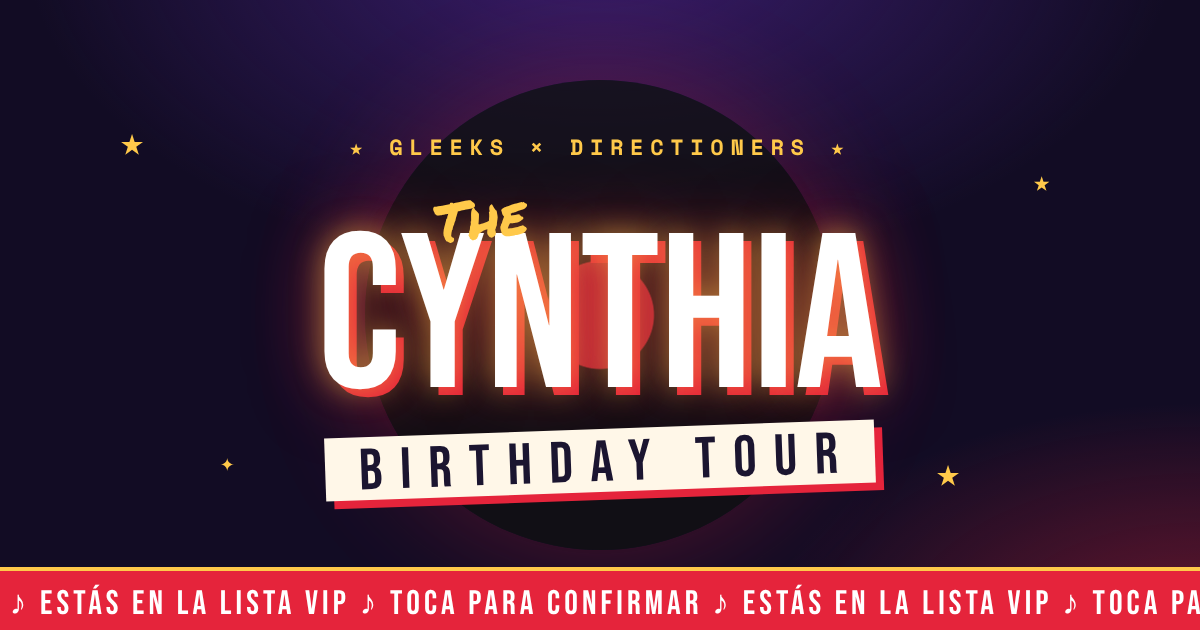
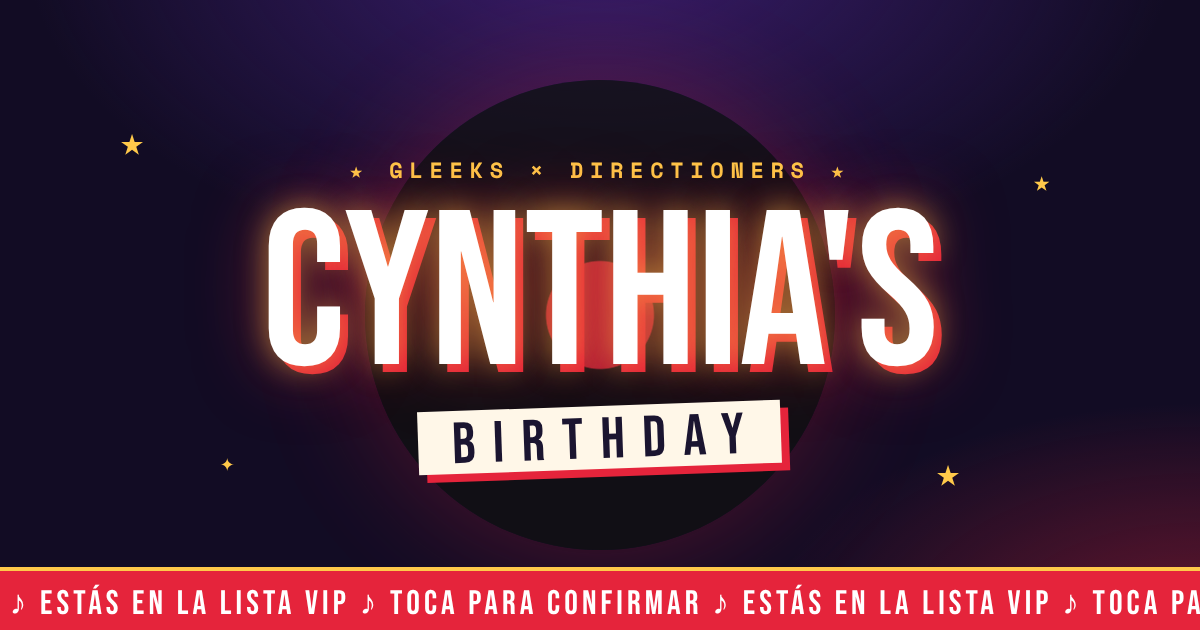
Ubicación exacta en Maps, título Cynthia's Birthday y texto de bienvenida más general
Claude-Session: https://claude.ai/code/session_01X5KBmerbAipXXG7GxfPJ6F

Changed region(s): [[0.185, 0.2111, 0.8017, 0.8143]]

diff --git a/index.html b/index.html
@@ -4,13 +4,13 @@
   <meta charset="utf-8">
   <meta name="viewport" content="width=device-width, initial-scale=1, viewport-fit=cover">
   <meta name="theme-color" content="#120c24">
-  <title>The Birthday Tour · Glee × 1D</title>
-  <meta name="description" content="Estás en la lista VIP: una fiesta de cumpleaños con la nostalgia de Glee y One Direction. Confirma tu asistencia aquí.">
+  <title>Cynthia's Birthday</title>
+  <meta name="description" content="Estás en la lista VIP del cumpleaños de Cynthia. Confirma tu asistencia aquí.">
 
   <!-- Vista previa al compartir por WhatsApp. Cambia og:url y og:image por URLs absolutas de tu sitio publicado. -->
   <meta property="og:type" content="website">
-  <meta property="og:title" content="🎉 The Birthday Tour · Estás en la lista VIP">
-  <meta property="og:description" content="Gleeks & Directioners: una noche de puros éxitos de los 2010s. Toca para ver tu pase y confirmar.">
+  <meta property="og:title" content="🎉 Cynthia's Birthday · Estás en la lista VIP">
+  <meta property="og:description" content="Una noche para bailar y celebrar. Toca para ver tu pase y confirmar.">
   <meta property="og:image" content="assets/og-image.png">
   <meta property="og:image:width" content="1200">
   <meta property="og:image:height" content="630">
@@ -53,14 +53,13 @@
           </div>
         </div>
         <div class="hero__title">
-          <span class="hero__pre">The</span>
-          <h1 class="hero__name" id="celebrantName">—</h1>
-          <span class="hero__tour">Birthday Tour</span>
+                    <h1 class="hero__name" id="celebrantName">—</h1>
+          <span class="hero__tour">Birthday</span>
         </div>
       </div>
 
       <p class="hero__lead reveal" id="heroLead">
-        Una noche para bailar los hits que nos marcaron y celebrar como si la banda estuviera en el escenario.
+        Una noche de pura diversión para bailar, reír y disfrutar juntos. ¡No te la puedes perder!
       </p>
 
       <div class="eq reveal" aria-hidden="true">

diff --git a/tools/og-image.html b/tools/og-image.html
@@ -19,8 +19,8 @@
 </style></head><body>
 <div class="vinyl"></div>
 <span class="s" style="left:120px;top:110px">★</span><span class="s" style="right:150px;top:160px;font-size:28px">★</span><span class="s" style="left:220px;bottom:150px;font-size:24px">✦</span><span class="s" style="right:240px;bottom:130px">★</span>
-<div class="wrap"><div class="k">★ GLEEKS × DIRECTIONERS ★</div><div class="the">The</div><h1 id="n">Valentina</h1><div class="tour">Birthday Tour</div></div>
+<div class="wrap"><div class="k">★ GLEEKS × DIRECTIONERS ★</div><h1 id="n">Cynthia</h1><div class="tour">Birthday</div></div>
 <div class="bar">&nbsp;♪ ESTÁS EN LA LISTA VIP ♪ TOCA PARA CONFIRMAR ♪ ESTÁS EN LA LISTA VIP ♪ TOCA PARA CONFIRMAR ♪</div>
 <script src="../config.js"></script>
-<script>document.getElementById('n').textContent=(window.INVITE_CONFIG&&INVITE_CONFIG.celebrant.name)||'Cumple'</script>
+<script>document.getElementById('n').textContent=(window.INVITE_CONFIG&&INVITE_CONFIG.celebrant.name+"'s")||'Cumple'</script>
 </body></html>

diff --git a/app.js b/app.js
@@ -32,8 +32,8 @@
 
   /* ---------- Render de datos del evento ---------- */
   const name = clean(C.celebrant?.name, 30) || "Cumpleañer@";
-  $("#celebrantName").textContent = name;
-  document.title = `${name} · The Birthday Tour`;
+  $("#celebrantName").textContent = name + "'s";
+  document.title = `${name}'s Birthday`;
   const age = C.celebrant?.age;
   $("#vinylAge").textContent = age ? String(age) : "★";
 
@@ -115,7 +115,7 @@
     if (!validStart) return;
     const end = new Date(start.getTime() + (C.durationHours || 5) * 3600e3);
     const utc = (d) => d.toISOString().replace(/[-:]/g, "").replace(/\.\d{3}/, "");
-    const title = `${name} · The Birthday Tour 🎉`;
+    const title = `${name}'s Birthday 🎉`;
     const loc = [C.venue?.name, C.venue?.address].filter(Boolean).join(", ");
     const details = `Dress code: ${C.dressCode?.title || ""}. ${C.dressCode?.detail || ""}\n${location.href.split("?")[0]}`;
     const isApple = /iPhone|iPad|iPod|Macintosh/.test(navigator.userAgent) && "ontouchend" in document;

diff --git a/config.js b/config.js
@@ -22,7 +22,7 @@ window.INVITE_CONFIG = {
     // Lo que se buscará en Google Maps (puede ser la dirección o el nombre del lugar).
     // Si tienes un enlace exacto de Google Maps, ponlo en mapsUrl y tendrá prioridad.
     mapsQuery: "José Pereira 560, Los Olivos, Lima, Perú",
-    mapsUrl: "",
+    mapsUrl: "https://maps.app.goo.gl/xM7bisZmAAsEdKe6A",
   },
 
   // Dress code
